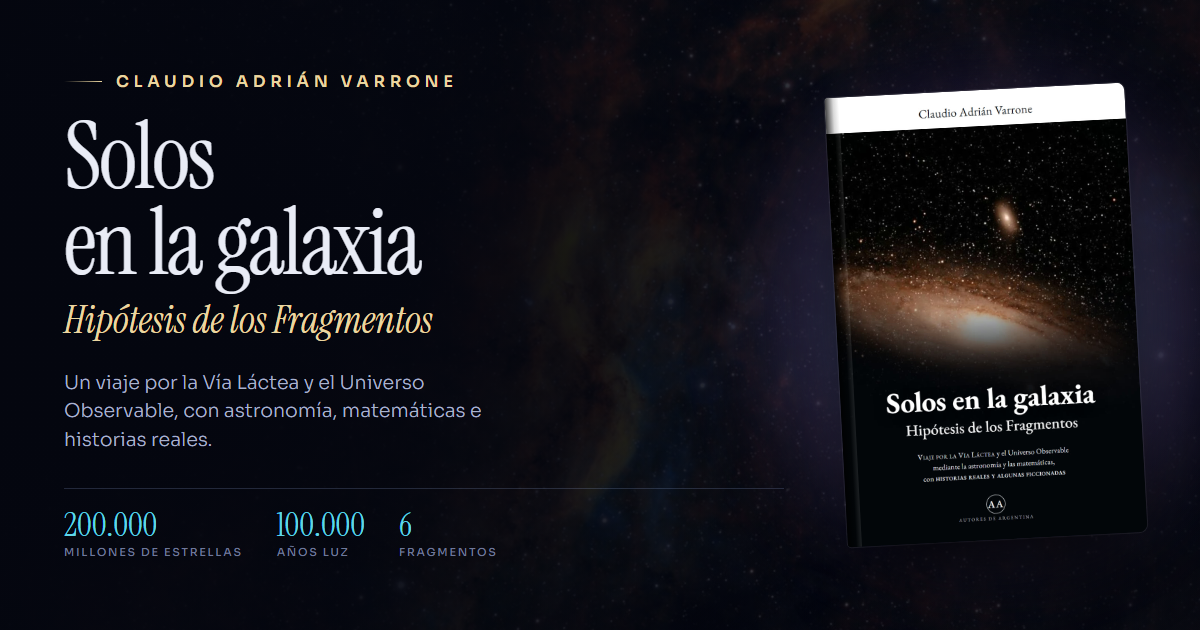
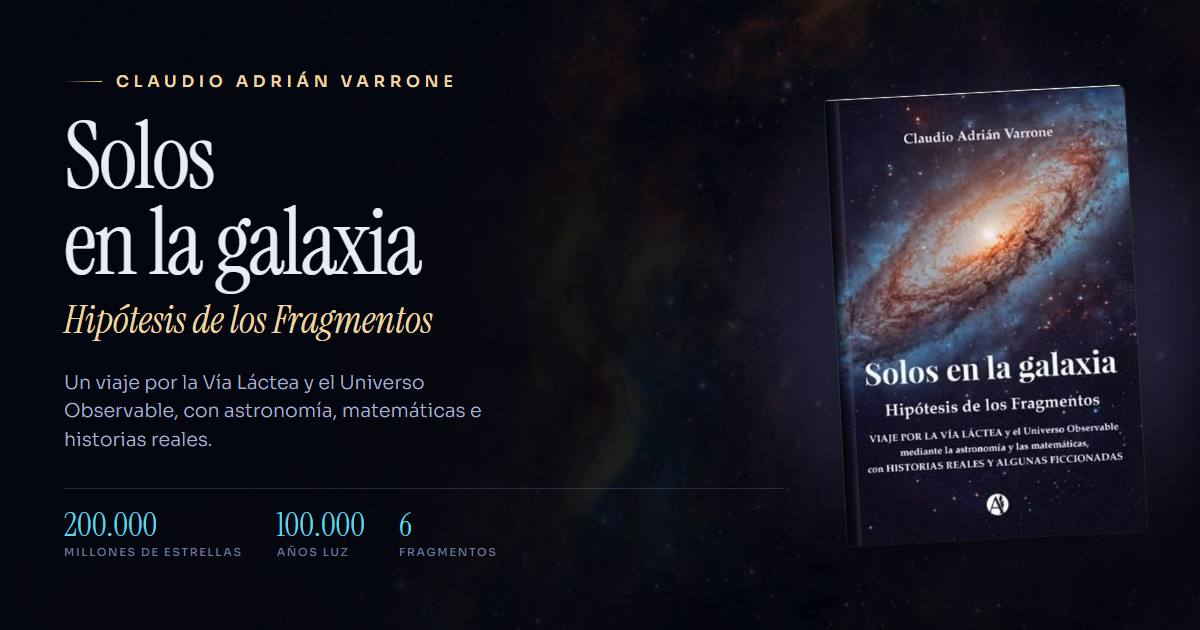
fix(demosolosenlagalaxia): portada real del cliente en el hero y en la og:image
Reemplaza la reconstruccion por el JPG que mando el autor (recortado el
margen blanco y reescalado a 760px). Regenera og.png con esa portada.

Changed region(s): [[0.6783, 0.1206, 0.9558, 0.8444]]

diff --git a/demosolosenlagalaxia/index.html b/demosolosenlagalaxia/index.html
@@ -148,7 +148,7 @@
       <div class="book" id="book">
         <div class="book__glow"></div>
         <div class="book__body">
-          <img class="book__face" src="img/cover.jpg" alt="Portada del libro Solos en la galaxia, de Claudio Adrián Varrone" width="800" height="1200">
+          <img class="book__face" src="img/cover.jpg" alt="Portada del libro Solos en la galaxia, de Claudio Adrián Varrone" width="760" height="1132">
           <span class="book__spine"></span>
           <span class="book__gloss"></span>
         </div>
